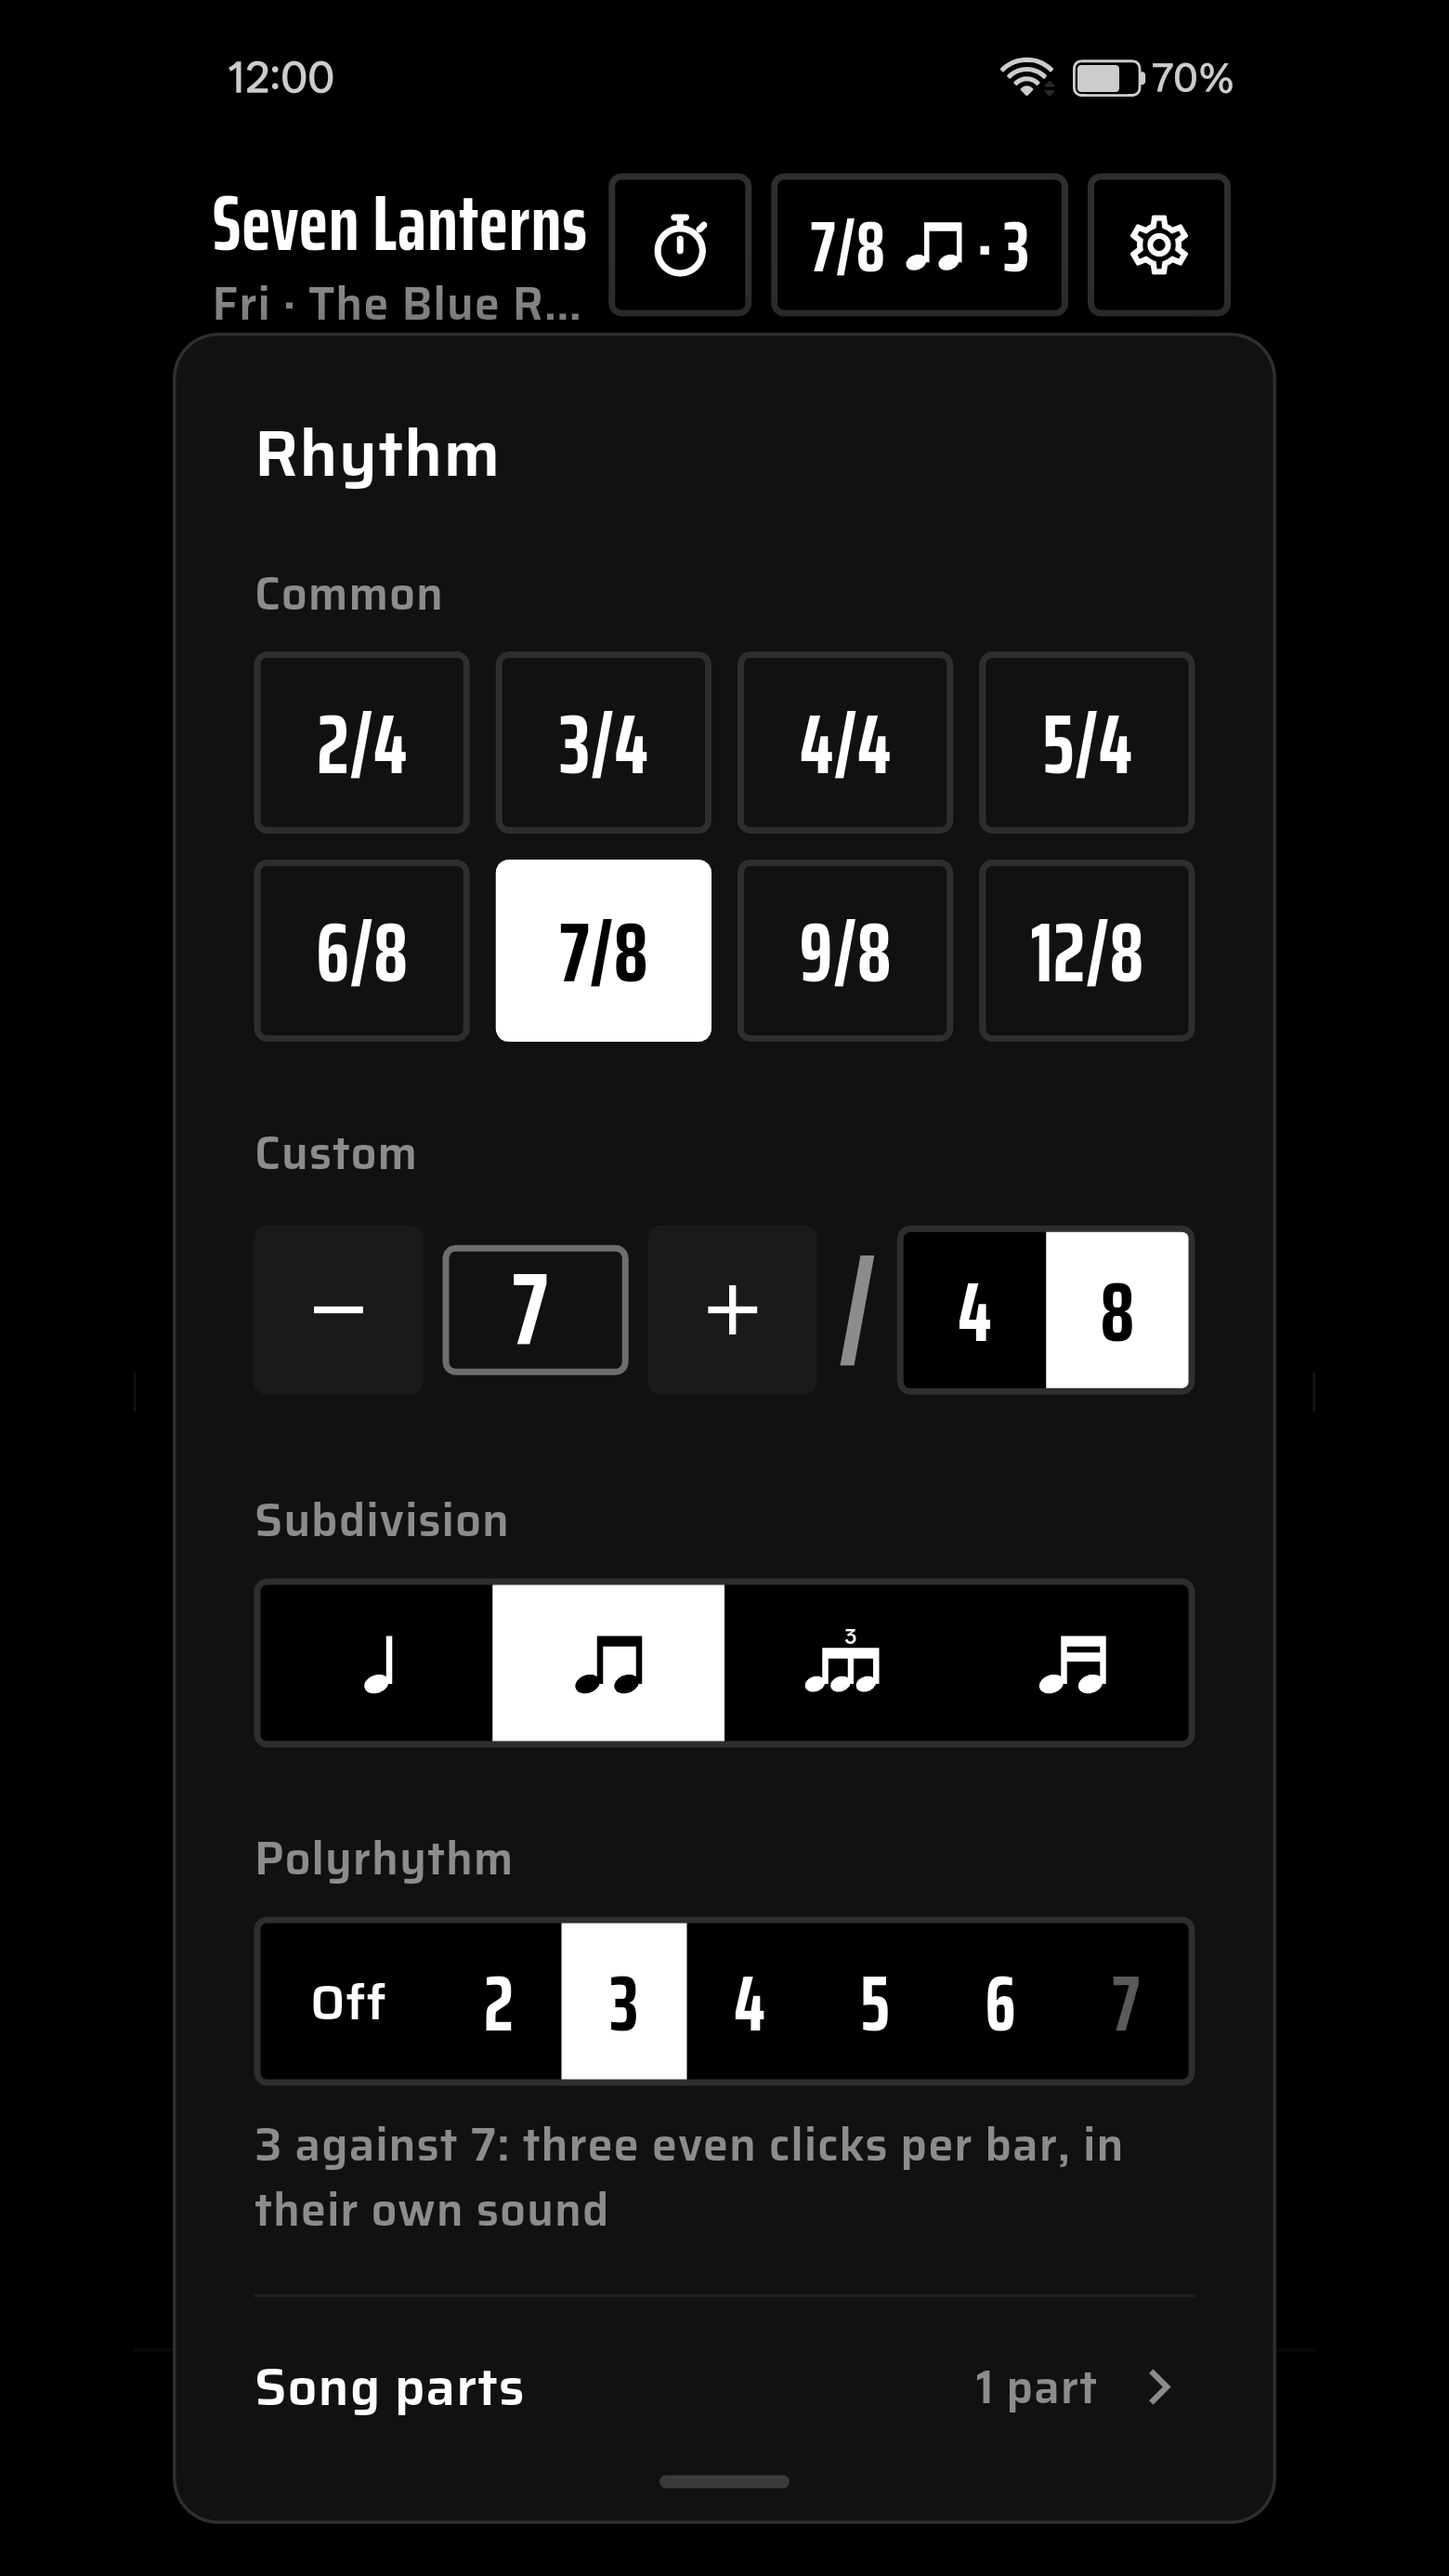
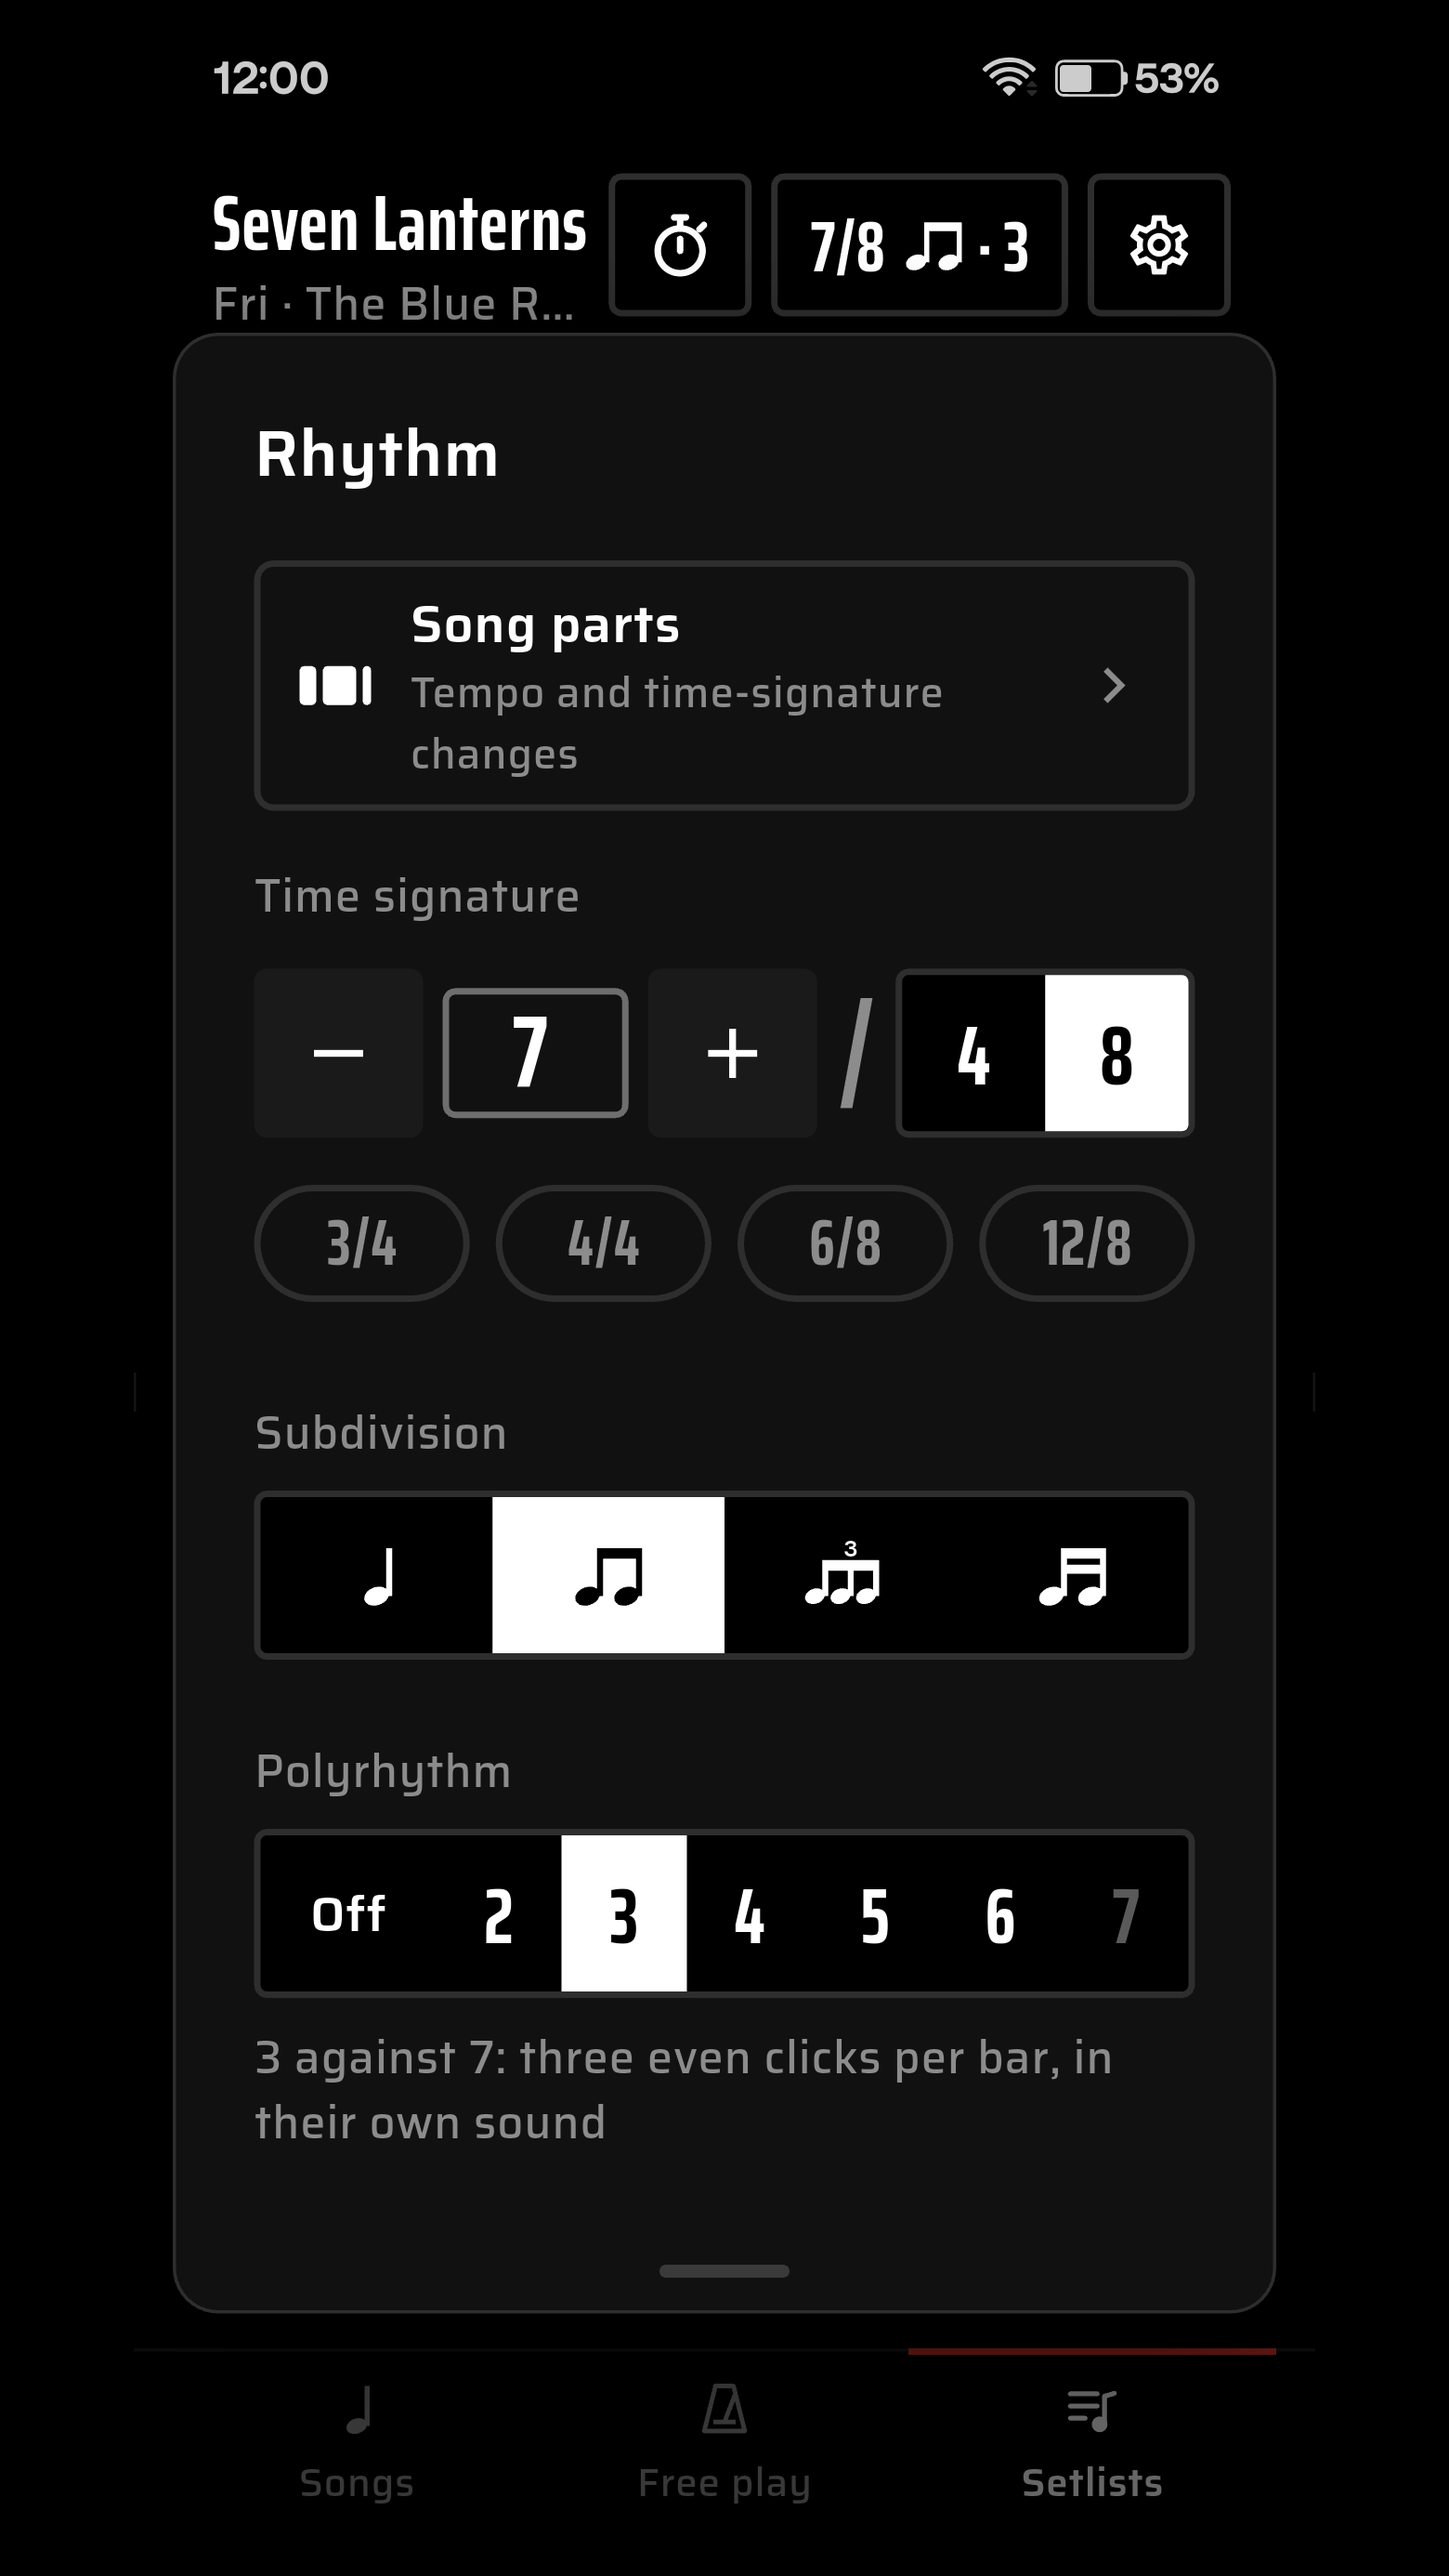
release: 1.7.0 (build 99)
What's new and Play notes, store listing (time signatures, practice
speed, setlist sharing), screenshot 07 retaken with the new Rhythm panel.

diff --git a/store/listing.md b/store/listing.md
@@ -6,7 +6,7 @@ App name (30): **Metra**
 
 A precise metronome with tempo changes, setlists and a stage mode. No ads.
 
-## Full description (2522 / 4000)
+## Full description (2822 / 4000)
 
 Metra is a metronome for every hour you play: practice, rehearsal and the stage. The click stays exactly on time, the screen reads at a glance, and a whole song, tempo changes and all, plays from one tap.
 
@@ -28,15 +28,17 @@ SETLISTS AND STAGE MODE
 • Step through a set with Previous / Next, the lock screen, or a Bluetooth page-turner pedal.
 • Stage mode: a large, simple screen with only what you need on stage: big Previous, Next and Start, and a hold to leave, so a stray touch never takes you out.
 • Change anything on the main screen while it plays, then Save, Revert, or Save as a new song.
+• Share a setlist as text: send the running order, with tempos and time signatures, to your band in any app.
 
 PRACTICE
 • Count-in of 1 or 2 bars, shown on screen as it counts.
 • Speed up: add a few bpm every few bars, up to a target tempo.
+• Practice speed for songs with parts: play the whole song at 80% (or 110%), every tempo change in proportion, a little faster each time it loops.
 • Stop after a number of bars or a length of time.
 • Tap tempo, a fast tempo ruler, and ±1 / ±5 buttons.
 
 RHYTHM
-• Any time signature, 2/4 to 12/8 and custom.
+• Any time signature from 1 to 16 beats over 4 or 8, with one-tap 3/4, 4/4, 6/8 and 12/8.
 • Quarters, eighths, triplets and sixteenths; tap a beat to accent or mute it.
 • Polyrhythms from 2 to 7 against the beat, in their own sound.
 • Four click sounds (Woodblock, Beep, Cowbell, Bell), with volumes for accents, beats, subdivisions and polyrhythm.
@@ -51,15 +53,14 @@ No ads, no account, no tracking. Metra has no internet access: your songs stay o
 
 Made by a drummer who wanted a metronome that just works, in the practice room and on stage.
 
-## Release notes (332 / 500)
+## Release notes (378 / 500)
 
 The What's new lines of the release (`assets/whats_new.md`), as printed by `tool/release.sh`:
 
-- Song parts: tempo, time-signature and gradual changes inside a song. Open the 4/4 button › Song parts, or hold the song's name.
-- Stage mode: your set full screen, for gigs
-- The screen stays on while Metra is open (Settings)
-- The song map: slide or tap to jump to a part
-- Every stepper repeats when held and takes typed numbers
+- Song parts are at the top of the 4/4 panel, and you can build them right in Free play, then save them as a song.
+- Practice speed for songs with parts: play the whole song at 80% (or 110%) and speed up each time it loops.
+- Share a setlist: send the running order with tempos to your band.
+- Simpler time signatures: any count over 4 or 8, plus one-tap 3/4, 4/4, 6/8 and 12/8.
 
 ## Graphics
 - App icon (512×512): `store/icon-512.png` (from `tool/icon/app-icon.png`)
@@ -71,7 +72,7 @@ The What's new lines of the release (`assets/whats_new.md`), as printed by `tool
   4. `04-set-list.png`: the set list open at 4/12
   5. `05-when-i-press-start.png`: count-in and speed up on
   6. `06-count-in-parts-page.png`: the parts page counting in, the tag filling, "Stop · Count-in 3 of 4"
-  7. `07-rhythm-panel.png`: 7/8, eighths, polyrhythm 3
+  7. `07-rhythm-panel.png`: the Rhythm panel (Song parts row, time signature editor with quick picks): 7/8, eighths, polyrhythm 3
   8. `08-daylight.png`: Glass Harbor playing in Daylight, Verse bar 2 of 8
 
 ## Redoing the screenshots

diff --git a/PLAN.md b/PLAN.md
@@ -3,9 +3,9 @@
 ## Overview
 A sample-accurate metronome for Android (and macOS / iOS), built with Flutter and `flutter_soloud`. Click timing comes from the C++ engine clock, so playback doesn't drift. Map of the code: [ARCHITECTURE.md](ARCHITECTURE.md). How it was built, phase by phase, with every decision: [docs/history.md](docs/history.md).
 
-## Status (2026-10-27)
-- Release ready: 1.6.0 (build 91), the first 1.6.0 testers get (build 66 was never uploaded): stage mode, keep the screen on, song parts with the parts page, the song map, heads-ups and count-in display, one stepper app-wide, vector icons. The AAB goes to Play by hand (closed test). On Play now: 1.5.3 (build 55), with the store listing assets in `store/` (refreshed for 1.6.0).
-- Next: upload 1.6.0 (build 91) to the closed test. Testers only ever move up a build (a build older than 58 can't read the version 4 files).
+## Status (2026-10-29)
+- Release ready: 1.7.0 (build 99): Practice speed for songs with parts (saved format 8), share a setlist as text, song parts in Free play (format 7), the Rhythm panel's one time signature editor with quick picks and the Song parts row at its top, set positions in one column. The AAB goes to Play by hand (closed test). In the closed test now: 1.6.0 (build 91).
+- Next: upload 1.7.0 (build 99) to the closed test, then tag v1.7.0. Queued, not started: sharing full sets and songs (`docs/design/next-prompt-sharing.md`).
 
 ## Working rules
 - One step per commit; stage specific paths (never `git add -A`: the designer edits `docs/design/` in parallel and those drafts aren't ours to commit).

diff --git a/assets/whats_new.md b/assets/whats_new.md
@@ -2,6 +2,12 @@
 
 Newest first. The top version's lines are also the Play Store release notes.
 
+## 1.7.0 · Oct 2026
+- Song parts are at the top of the 4/4 panel, and you can build them right in Free play, then save them as a song.
+- Practice speed for songs with parts: play the whole song at 80% (or 110%) and speed up each time it loops.
+- Share a setlist: send the running order with tempos to your band.
+- Simpler time signatures: any count over 4 or 8, plus one-tap 3/4, 4/4, 6/8 and 12/8.
+
 ## 1.6.0 · Oct 2026
 - Song parts: tempo, time-signature and gradual changes inside a song. Open the 4/4 button › Song parts, or hold the song's name.
 - Stage mode: your set full screen, for gigs

diff --git a/CHANGELOG.md b/CHANGELOG.md
@@ -4,6 +4,8 @@ All notable changes to Metra. The format follows [Keep a Changelog](https://keep
 
 ## [Unreleased]
 
+## [1.7.0] - 2026-10-29
+
 ### Added
 - Practice speed, for songs with parts (in "When I press Start", in Speed up's place): play every part at a percentage of its tempo (50–150%), optionally faster each time "Loop song" starts over, up to a limit. Every tempo shown is the real one, and a white "80%" tag ends the line under the BPM (also in stage mode). Saved with the song.
 - Share a setlist as text: a Share button in the set panel's bottom row (with Add songs and Stage mode) sends the running order (tempos and time signatures, one line per song) to any app.
